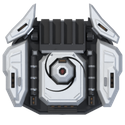
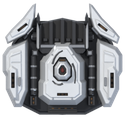
Arte 3D final da Metralhadora Quadrupla (Saci): 4 canos em pares alternados, cupula de mira com o gorro vermelho
Claude-Session: https://claude.ai/code/session_01WinUi4wzHz3zWHUSicAx1P

diff --git a/tools/blender/parts/bs_quad_hmg.py b/tools/blender/parts/bs_quad_hmg.py
@@ -36,7 +36,7 @@ PART = {
     },
     "lights": [                    # luzes dinamicas em coordenadas da cabeca
         {"at": [0.0, -0.70], "size": 0.9, "color": [255, 120, 30], "z": 0.8},
-        {"at": [0.0, -0.10], "size": 0.45, "color": [255, 40, 30], "z": 0.9},
+        {"at": [0.0, -0.13], "size": 0.45, "color": [255, 40, 30], "z": 0.9},
     ],
     "preview_pattern": "pairs",
 }
@@ -50,20 +50,17 @@ SADDLE = [(-0.22, -0.665), (0.22, -0.665), (0.38, -0.545), (0.38, -0.30), (0.35,
           (0.13, 0.33), (-0.13, 0.33), (-0.35, 0.02), (-0.35, -0.26), (-0.38, -0.30), (-0.38, -0.545)]
 SADDLE_Z = (0.30, 0.58)
 SADDLE_SLOPE, SADDLE_GROOVE, SADDLE_PH = 0.08, 0.03, 0.03
-DY = -0.14                         # centro da cupula (parte larga da flecha)
-SWIRL = dict(r0=0.18, r1=0.27, sweep=-110, w0=0.046, w1=0.024, ex=0.80, ey=1.10)   # eliptico (sela alongada)
-SWIRL_A0 = (75, 195, 315)          # angulo de saida de cada braco (graus)
-WELL_R, DOME_R = 0.19, (0.160, 0.130, 0.095)
+DY = -0.13                         # centro da cupula (parte larga da flecha)
+# bracos finos (peso de linha de painel) e facetados (poucos segmentos retos), sem fechar lacos
+SWIRL = dict(sweep=-60, w0=0.022, w1=0.010, ex=0.82, ey=1.25, n=4)   # eliptico; vaos de 60 graus entre bracos
+SWIRL_A0 = (30, 150, 270)          # saida de cada braco (graus): nenhum termina perto da fenda de pips (y=-0.50)
+SWIRL_DCY = -0.025                 # centro do redemoinho um pouco atras da cupula (a proa e estreita)
+SWIRL_DIN, SWIRL_DR, SWIRL_RMAX = -0.03, 0.075, 0.27   # cada braco nasce 0.03 FORA do poco (vao claro) e cresce 0.075
+WELL_R, DOME_R = 0.165, (0.150, 0.122, 0.088)
 CRADLE = [(-0.33, 0.12), (0.33, 0.12), (0.385, 0.18), (0.385, 0.58), (0.345, 0.625), (0.0, 0.70),
           (-0.345, 0.625), (-0.385, 0.58), (-0.385, 0.18)]
-SLOT_Y = -0.485                    # fenda de pips atras da cupula
+SLOT_Y = -0.50                    # fenda de pips atras da cupula
 SBOLTS = [(-0.15, -0.57), (0.15, -0.57), (-0.163, 0.125), (0.163, 0.125)]
-
-
-def octo(cx, cy, r, rot=22.5):
-    """Octogono regular (rot=22.5: lados retos para frente/tras/lados)."""
-    return [(cx + math.cos(math.radians(rot + 45 * k)) * r, cy + math.sin(math.radians(rot + 45 * k)) * r)
-            for k in range(8)]
 
 
 def dome_poly(cx, cy, r):
@@ -92,9 +89,30 @@ def swirl_band(cx, cy, r0, r1, a0, sweep, w0, w1, ex=1.0, ey=1.0, n=20):
     return left + list(reversed(right))
 
 
+def inside(p, poly):
+    """Ponto dentro do poligono (paridade de cruzamentos)."""
+    x, y = p
+    res = False
+    for (x0, y0), (x1, y1) in zip(poly, poly[1:] + poly[:1]):
+        if (y0 > y) != (y1 > y) and x < x0 + (y - y0) * (x1 - x0) / (y1 - y0):
+            res = not res
+    return res
+
+
 def swirl_arms():
-    return [swirl_band(0, DY, a0=a, **{k: v for k, v in SWIRL.items() if k not in ("ex", "ey")},
-                       ex=SWIRL["ex"], ey=SWIRL["ey"]) for a in SWIRL_A0]
+    """3 bracos soltos em volta do poco escuro (mesmo afastamento da borda: rajadas de vento, sem lacos)."""
+    cx, cy = 0.0, DY + SWIRL_DCY
+    well = dome_poly(0, DY, WELL_R)
+    arms = []
+    for a in SWIRL_A0:
+        ca, sa = math.cos(math.radians(a)) * SWIRL["ex"], math.sin(math.radians(a)) * SWIRL["ey"]
+        lo, hi = 0.0, 0.5                        # raio da borda do poco nesta direcao (bissecao)
+        for _ in range(30):
+            mid = (lo + hi) / 2
+            lo, hi = (mid, hi) if inside((cx + mid * ca, cy + mid * sa), well) else (lo, mid)
+        r0 = lo - SWIRL_DIN
+        arms.append(swirl_band(cx, cy, r0, min(r0 + SWIRL_DR, SWIRL_RMAX), a, **SWIRL))
+    return arms
 
 
 def slot_rot(name, cx, cy, length, w, ztop, n, M, tags, rot, targets, depth=0.07, mat=None):
@@ -134,8 +152,8 @@ def head(M, T="head", phase=0.0):
     for i, y in enumerate(YS):
         yf = 0.70 - abs(y) * (0.075 / 0.345) - 0.03     # frente do chevron nesta calha
         B.box(f"cr_bed{i}", y, (0.30 + yf) / 2, 0.125, yf - 0.30, 0.34, 0.355, M["black"], bevel=0.0, tags=tags)
-        # bandeja de alimentacao (aco) no fundo da calha, logo atras da raiz do cano
-        B.box(f"cr_tray{i}", y, 0.355, 0.07, 0.05, 0.35, 0.39, S, bevel=0.006, tags=tags)
+        # bandeja de alimentacao escura no fundo da calha (aco aqui virava "teclado" a 1x)
+        B.box(f"cr_tray{i}", y, 0.355, 0.07, 0.05, 0.35, 0.39, KM, bevel=0.006, tags=tags)
     B.box("cr_band", 0, 0.255, 0.70, 0.05, 0.42, 0.47, S, bevel=0.008, tags=tags)
     for sx in (-1, 1):
         B.cyl(f"trun{sx}", sx * 0.43, 0.40, 0.34, 0.075, 0.09, KM, axis="X", verts=8, bevel=0.008, tags=tags)
@@ -144,6 +162,11 @@ def head(M, T="head", phase=0.0):
         tooth = [(0.352, 0.57), (0.395, 0.60), (0.402, 0.73), (0.378, 0.79), (0.352, 0.70)]
         B.plate(f"cr_tooth{sx}", tooth if sx > 0 else Mo.mirror(tooth), 0.26, 0.47, KM, slope=0.012,
                 bevel=0.006, tags=tags)
+        # bochecha clara fina com ponta em garra (fora do sprite do cano externo: x >= 0.358)
+        cheek = [(0.358, 0.22), (0.385, 0.20), (0.410, 0.235), (0.410, 0.50), (0.398, 0.645), (0.370, 0.575),
+                 (0.358, 0.52)]
+        B.plate(f"cr_cheek{sx}", cheek if sx > 0 else Mo.mirror(cheek), 0.36, 0.52, AM, slope=0.008, bevel=0.005,
+                tags=tags)
 
     # ombreiras (caixas de cinta blindadas) + laminas em garra que avancam ate os canos externos
     paul = [(-0.53, -0.44), (-0.64, -0.70), (-0.76, -0.70), (-0.89, -0.42), (-0.89, -0.22), (-0.94, -0.14),
@@ -198,11 +221,13 @@ def head(M, T="head", phase=0.0):
     zt = z1 + SADDLE_PH                          # topo do painel interno
     zg = z1 - 0.07                               # fundo dos sulcos (passa do painel: sem triangulos pretos)
     for k, band in enumerate(swirl_arms()):
-        B.cut(spn, [B.loft(f"sw_c{k}", band, band, zg, 0.95, K, bevel=0.0)])
-        B.cut(sa, [B.loft(f"sw_cb{k}", band, band, zg, 0.95, K, bevel=0.0)])
-        # fundo do sulco em nucleo medio: le como gravacao, nao como rachadura
-        B.loft(f"sw_bed{k}", band, band, zg - 0.01, zg + 0.004, KM, bevel=0.0, tags=tags)
-    # poco escuro em volta da cupula (os bracos do redemoinho saem dele)
+        # cortador um pouco mais largo: o bisel reaplicado come ~0.008 de cada borda do sulco
+        cb = B.offset_poly(band, -0.006)
+        B.cut(spn, [B.loft(f"sw_c{k}", cb, cb, zg, 0.95, K, bevel=0.0)])
+        B.cut(sa, [B.loft(f"sw_cb{k}", cb, cb, zg, 0.95, K, bevel=0.0)])
+        # fundo cinza medio: linha gravada no peso das linhas de painel do 76 mm (preto virava glifo de tinta)
+        B.loft(f"sw_bed{k}", cb, cb, zg - 0.01, zg + 0.004, AM, bevel=0.0, tags=tags)
+    # poco escuro em volta da cupula (recesso preto; os bracos ficam soltos em volta)
     well = dome_poly(0, DY, WELL_R)
     B.cut(spn, [B.loft("well_c", well, well, zg, 0.95, K, bevel=0.0)])
     B.cut(sa, [B.loft("well_cb", well, well, zg, 0.95, K, bevel=0.0)])
@@ -213,11 +238,13 @@ def head(M, T="head", phase=0.0):
     top = B.loft("dome_top", dome_poly(0, DY, DOME_R[1]), dome_poly(0, DY, DOME_R[2]), zd1, zd2, A, bevel=0.006,
                  tags=tags)
     # recesso escuro no topo com o gorro vermelho (gota apontando para a frente, como a proa)
-    rec = dome_poly(0, DY, 0.072)
+    rec = dome_poly(0, DY, 0.068)
     B.cut(top, [B.loft("cap_cut", rec, rec, zd2 - 0.03, 1.2, K, bevel=0.0)])
     B.loft("cap_bed", rec, rec, zd2 - 0.04, zd2 - 0.028, M["black"], bevel=0.0, tags=tags)
-    cap = [(0.0, DY + 0.072), (0.040, DY + 0.012), (0.032, DY - 0.030), (0.0, DY - 0.048), (-0.032, DY - 0.030),
-           (-0.040, DY + 0.012)]
+    cap0 = [(0.0, DY + 0.072), (0.040, DY + 0.012), (0.032, DY - 0.030), (0.0, DY - 0.048), (-0.032, DY - 0.030),
+            (-0.040, DY + 0.012)]
+    # gorro reduzido a 75 %: anel escuro de 1-2 px entre a luz e a borda do recesso (LED no soquete)
+    cap = [(x * 0.75, DY + 0.006 + (y - DY) * 0.75) for x, y in cap0]
     # vermelho proprio do gorro: M["red"] (forca 6) estoura para branco neste tamanho; este fica saturado,
     # apaga no turret_off (mat_glow) e deve ser reaproveitado por outras pecas que precisem de vermelho pequeno
     red = B.mat_glow("saci_red", (1.0, 0.05, 0.03), 1.8)
@@ -229,8 +256,10 @@ def head(M, T="head", phase=0.0):
     B.box("vis_bed", 0, DY + 0.168, 0.11, 0.05, zv - 0.006, zv + 0.004, M["black"], bevel=0.0, tags=tags)
     B.box("vis_lens", 0, DY + 0.166, 0.075, 0.016, zv, zv + 0.01, M["glow_dim"], bevel=0.0, tags=tags)
     # fenda com 3 pips atras da cupula (como a fenda da espinha do 76 mm)
-    Mo.slot_with_pips("sp", SLOT_Y, -0.10, 0.10, 0.045, zt, 3, M, tags, target=[spn, sa], depth=0.08,
+    Mo.slot_with_pips("sp", SLOT_Y, -0.085, 0.085, 0.045, zt, 3, M, tags, target=[spn, sa], depth=0.08,
                       vertical=False)
+    for o in [o for o in B.objects_with(T) if o.name.startswith("sp_pip")]:
+        o.data.materials[0] = M["glow_dim"]       # o gorro vermelho e a luz principal da sela
     # linhas de painel no degrau lateral da sela
     if spn is not None:
         B.cut(spn, [B.rbox(f"sapl{sx}", sx * 0.255, -0.28, 0.016, 0.07, z1 - 0.02, 0.95, K, rot=90, bevel=0.0)
@@ -243,7 +272,7 @@ def head(M, T="head", phase=0.0):
     for i in range(3):
         B.box(f"louver{i}", 0, -0.78 + i * 0.04, 0.44, 0.016, 0.20, 0.31, KM, bevel=0.003, tags=tags)
     for i, x in enumerate((-0.15, -0.05, 0.05, 0.15)):
-        B.box(f"vent_pip{i}", x, -0.69, 0.045, 0.02, 0.30, 0.32, M["glow"], bevel=0.0, tags=tags)
+        B.box(f"vent_pip{i}", x, -0.72, 0.035, 0.016, 0.29, 0.306, M["glow"], bevel=0.0, tags=tags)
     B.bolts("bolt", [(-0.66, -0.62), (0.66, -0.62)], 0.29, 0.02, S, tags=tags)
 
 
@@ -254,20 +283,22 @@ def barrel(M, L=1.2, T="barrel", phase=0.0):
     hot = (T, "hot")
     A, AM, K, KM, S = M["armor"], M["armor_mid"], M["core"], M["core_mid"], M["steel"]
     z = 0.50
-    # receptor escuro (fica sobre o berco) com tampa de alimentacao escura e trava de aco
+    # receptor escuro (fica sobre o berco) com tampa e trava escuras; so a dobradica e de aco
     rec = [(-0.056, 0.0), (0.056, 0.0), (0.064, 0.03), (0.064, 0.25), (0.05, 0.29), (-0.05, 0.29),
            (-0.064, 0.25), (-0.064, 0.03)]
     B.plate("b_recv", rec, z - 0.08, z + 0.05, KM, slope=0.012, tags=tags)
     B.box("b_cover", 0, 0.14, 0.074, 0.15, z + 0.045, z + 0.065, KM, bevel=0.006, tags=tags)
     B.box("b_hinge", 0, 0.222, 0.06, 0.014, z + 0.05, z + 0.07, S, bevel=0.004, tags=tags)
-    B.box("b_latch", 0, 0.04, 0.05, 0.03, z + 0.05, z + 0.075, S, bevel=0.005, tags=tags)
+    B.box("b_latch", 0, 0.04, 0.05, 0.03, z + 0.05, z + 0.075, KM, bevel=0.005, tags=tags)
     # camisa de resfriamento escura com fendas transversais (brasa fraca no fundo), como a do 76 mm
     y0j, y1j = 0.29, 0.60
     jk = B.cyl("b_jacket", 0, (y0j + y1j) / 2, z, 0.058, y1j - y0j, KM, axis="Y", verts=8, bevel=0.006,
                tags=tags)
-    B.cut(jk, [B.box(f"b_jc{i}", 0, 0.37 + i * 0.065, 0.14, 0.03, z + 0.025, z + 0.2, K, bevel=0.0)
-               for i in range(4)])
-    B.box("b_heat", 0, (y0j + y1j) / 2, 0.075, y1j - y0j - 0.08, z + 0.018, z + 0.029, M["ember"], bevel=0.0,
+    # so 2 fendas por cano: com 4 canos, 3 fendas viravam uma grade de 12 pontos laranja a 1x
+    B.cut(jk, [B.box(f"b_jc{i}", 0, 0.395 + i * 0.10, 0.14, 0.03, z + 0.025, z + 0.2, K, bevel=0.0)
+               for i in range(2)])
+    # brasa estreita: fenda escura com um brilho laranja no meio (calor leve)
+    B.box("b_heat", 0, (y0j + y1j) / 2, 0.035, y1j - y0j - 0.08, z + 0.018, z + 0.029, M["ember"], bevel=0.0,
           tags=tags)
     # aletas finas nas pontas da camisa
     for i, y in enumerate((y0j + 0.02, y1j - 0.02)):
@@ -286,11 +317,11 @@ def barrel(M, L=1.2, T="barrel", phase=0.0):
     # freio leve em ponta de flecha com fendas transversais escuras
     yb = L - 0.10
     brake = [(-0.056, yb - 0.10), (0.056, yb - 0.10), (0.066, yb - 0.07), (0.066, yb + 0.045),
-             (0.036, yb + 0.10), (-0.036, yb + 0.10), (-0.066, yb + 0.045), (-0.066, yb - 0.07)]
+             (0.026, yb + 0.10), (-0.026, yb + 0.10), (-0.066, yb + 0.045), (-0.066, yb - 0.07)]
     br = B.plate("b_brake", brake, z - 0.055, z + 0.055, A, slope=0.014, tags=tags)
     bc = [B.box(f"b_bc{i}", 0, yb - 0.055 + i * 0.048, 0.16, 0.02, z + 0.012, z + 0.2, K, bevel=0.0)
           for i in range(3)]
-    bc.append(B.box("b_bore_c", 0, L, 0.032, 0.06, z - 0.03, z + 0.2, K, bevel=0.0))
+    bc.append(B.box("b_bore_c", 0, L, 0.024, 0.06, z - 0.03, z + 0.2, K, bevel=0.0))
     B.cut(br, bc)
     # fundo escuro das fendas: e ele que esquenta (laranja so dentro das fendas, a casca clara nao fica rosada)
     B.box("b_brake_core", 0, yb - 0.008, 0.11, 0.125, z - 0.04, z + 0.016, K, bevel=0.0, tags=hot)
